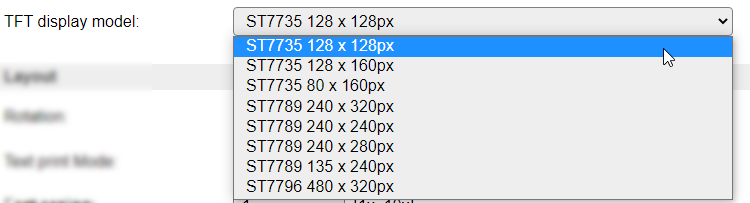
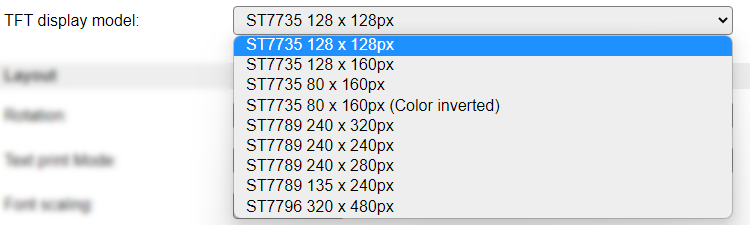
[P116] Add support for ST7735 80x160px with inverted color

diff --git a/src/src/PluginStructs/P116_data_struct.cpp b/src/src/PluginStructs/P116_data_struct.cpp
@@ -12,6 +12,7 @@ const __FlashStringHelper* ST77xx_type_toString(ST77xx_type_e device) {
     case ST77xx_type_e::ST7735s_128x128: return F("ST7735 128 x 128px");
     case ST77xx_type_e::ST7735s_128x160: return F("ST7735 128 x 160px");
     case ST77xx_type_e::ST7735s_80x160: return F("ST7735 80 x 160px");
+    case ST77xx_type_e::ST7735s_80x160_M5: return F("ST7735 80 x 160px (Color inverted)");
     case ST77xx_type_e::ST7789vw_240x320: return F("ST7789 240 x 320px");
     case ST77xx_type_e::ST7789vw_240x240: return F("ST7789 240 x 240px");
     case ST77xx_type_e::ST7789vw_240x280: return F("ST7789 240 x 280px");
@@ -35,6 +36,7 @@ void ST77xx_type_toResolution(ST77xx_type_e device, uint16_t& x, uint16_t& y) {
       x = 128;
       y = 160;
       break;
+    case ST77xx_type_e::ST7735s_80x160_M5:
     case ST77xx_type_e::ST7735s_80x160:
       x = 80;
       y = 160;
@@ -138,6 +140,13 @@ bool P116_data_struct::plugin_init(struct EventStruct *event) {
 
         if (initRoptions == 0xFF) {
           initRoptions = INITR_BLACKTAB; // 128x160px
+        }
+
+      // fall through
+      case ST77xx_type_e::ST7735s_80x160_M5:
+
+        if (initRoptions == 0xFF) {
+          initRoptions = INITR_GREENTAB160x80; // 80x160px ST7735sv, inverted (M5Stack StickC)
         }
 
       // fall through

diff --git a/src/src/PluginStructs/P116_data_struct.h b/src/src/PluginStructs/P116_data_struct.h
@@ -58,22 +58,23 @@
 # else // ifdef ESP32
 
 // Was: for D1 Mini with shield connection
-  #  define P116_TFT_CS        0 // D3
-  #  define P116_TFT_DC        4 // D2
+  #  define P116_TFT_CS        0  // D3
+  #  define P116_TFT_DC        4  // D2
   #  define P116_TFT_RST       -1 // D4 // -1
   #  define P116_BACKLIGHT_PIN -1 // D6 // 15 // D8 -> Blocks Wemos
 # endif // ifdef ESP32
 
 enum class ST77xx_type_e : uint8_t {
-  ST7735s_128x128 = 0,
-  ST7735s_128x160,
-  ST7735s_80x160,
-  ST7789vw_240x320,
-  ST7789vw_240x240,
-  ST7789vw_240x280,
-  ST7789vw_135x240,
-  ST7796s_320x480,
-  ST77xx_MAX // must be last value in enum
+  ST7735s_128x128   = 0,
+  ST7735s_128x160   = 1u,
+  ST7735s_80x160    = 2u,
+  ST7735s_80x160_M5 = 8u,
+  ST7789vw_240x320  = 3u,
+  ST7789vw_240x240  = 4u,
+  ST7789vw_240x280  = 5u,
+  ST7789vw_135x240  = 6u,
+  ST7796s_320x480   = 7u,
+  ST77xx_MAX        = 9u // must be last value in enum
 };
 
 enum class P116_CommandTrigger : uint8_t {

diff --git a/lib/Adafruit_ST77xx/Adafruit_ST7735.cpp b/lib/Adafruit_ST77xx/Adafruit_ST7735.cpp
@@ -234,6 +234,15 @@ void Adafruit_ST7735::initR(uint8_t options) {
     displayInit(Rcmd2green160x80);
     _colstart = 24;
     _rowstart = 0;
+  } else if (options == INITR_GREENTAB160x80) {
+    _height = ST7735_TFTWIDTH_80;
+    _width = ST7735_TFTHEIGHT_160;
+    displayInit(Rcmd2green160x80);
+    const uint8_t data = 0x00;
+    sendCommand(ST77XX_INVON, &data, 0);
+    sendCommand(ST77XX_INVON, &data, 0); // Write twice...
+    _colstart = 26;
+    _rowstart = 1;
   } else {
     // colstart, rowstart left at default '0' values
     displayInit(Rcmd2red);

diff --git a/lib/Adafruit_ST77xx/Adafruit_ST7735.h b/lib/Adafruit_ST77xx/Adafruit_ST7735.h
@@ -13,6 +13,7 @@
 #define INITR_144GREENTAB 0x01
 #define INITR_MINI160x80 0x04
 #define INITR_HALLOWING 0x05
+#define INITR_GREENTAB160x80 0x06
 
 // Some register settings
 #define ST7735_MADCTL_BGR 0x08

diff --git a/docs/source/Plugin/P116.rst b/docs/source/Plugin/P116.rst
@@ -139,6 +139,7 @@ Available options:
 * *ST7735 128 x 128px* Allows about 12 lines of text in the smallest font scaling setting (the 13th line will be distorted, as the bottom 2 pixellines aren't available)
 * *ST7735 128 x 160px* Allows 16 lines of text in the smallest font scaling setting.
 * *ST7735 80 x 160px* Allows 16 lines of text in the smallest font scaling setting.
+* *ST7735 80 x 160px (Color inverted)* Special color inverted configuration as used in f.e. M5Stack StickC.
 * *ST7789 240 x 320px* Allows 32 lines of text in the smallest font scaling setting. Predefined text only goes to 24, extra lines can be displayed from rules or external commands.
 * *ST7789 240 x 240px* Allows 24 lines of text in the smallest font scaling setting.
 * *ST7789 240 x 280px* Allows 28 lines of text in the smallest font scaling setting. Predefined text only goes to 24, extra lines can be displayed from rules or external commands.
